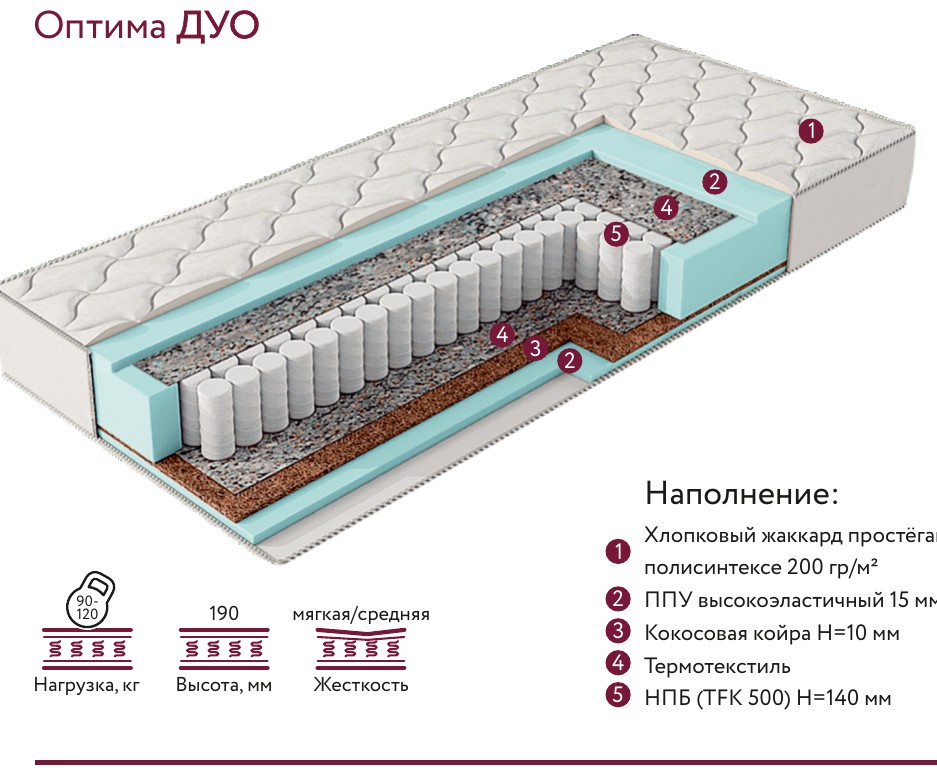
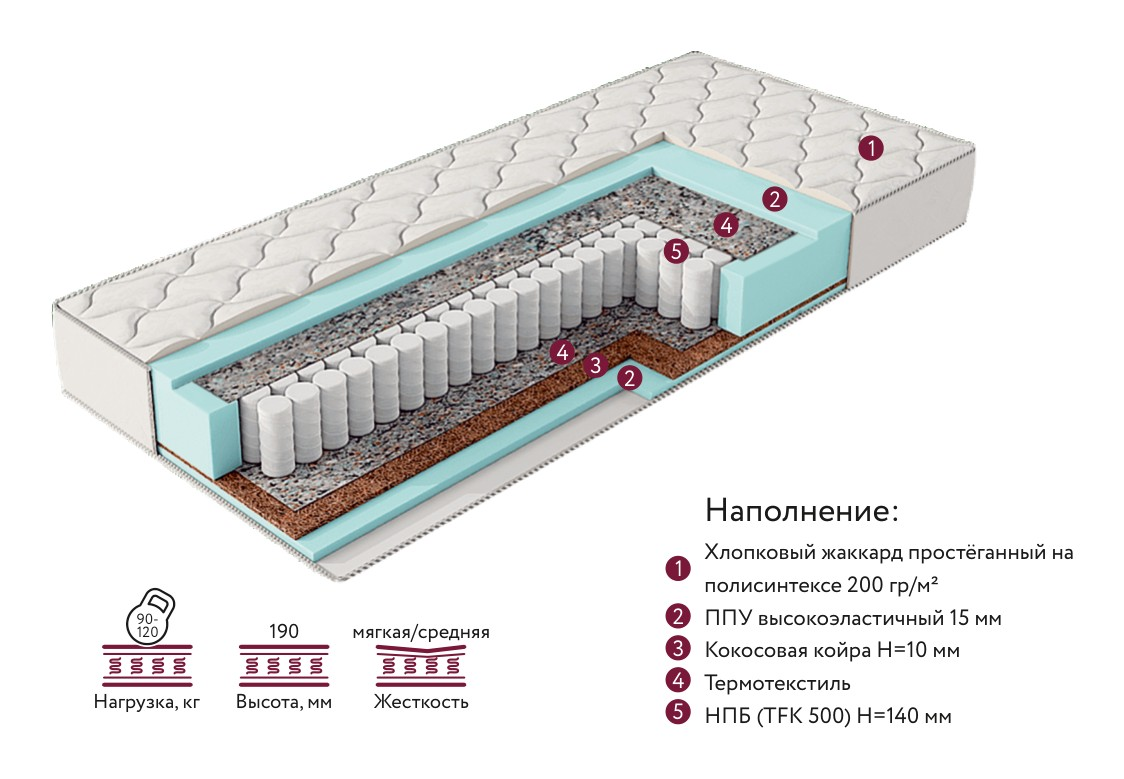
Разрезы матрасов без обрезки; плитка «Установить приложение» вместо советов
- 14 слайдов «Разрез» перенарезаны из листовки: матрас и «Наполнение» целиком
- Главное меню: «Советы начинающему» → «Установить приложение»; кнопка из шапки убрана

diff --git a/index.html b/index.html
@@ -522,21 +522,6 @@
     display: flex; align-items: center; justify-content: center;
   }
   .home-header-actions { display: flex; align-items: center; gap: 0.45rem; flex: none; }
-  .home-install-btn {
-    height: 2.55rem; padding: 0.14rem 0.72rem 0.14rem 0.18rem;
-    border: 1px solid var(--line); border-radius: 999px;
-    background: var(--surface); color: var(--ink); text-decoration: none;
-    display: inline-flex; align-items: center; justify-content: center; gap: 0.28rem;
-    font-size: 0.66rem; font-weight: 650; line-height: 1; white-space: nowrap;
-    box-shadow: 0 0.25rem 0.7rem rgba(44, 42, 30, 0.08);
-    transition: border-color 0.15s, background 0.15s, transform 0.15s;
-  }
-  .home-install-btn .text { line-height: 1.18; text-align: left; }
-  .home-install-btn:hover { border-color: var(--accent); background: var(--accent-soft); transform: translateY(-1px); }
-  .home-install-btn img {
-    display: block; width: 2.3rem; height: 2.3rem; object-fit: contain;
-    transform: scale(1.3); transform-origin: center;
-  }
   @media (max-width: 600px) {
     .home-header { gap: 0.45rem; }
     .home-header .word {
@@ -544,9 +529,6 @@
       letter-spacing: 0.01em;
     }
     .home-header-actions { gap: 0.3rem; }
-    .home-install-btn { width: 2.4rem; height: 2.4rem; padding: 0; }
-    .home-install-btn img { width: 2.25rem; height: 2.25rem; transform: scale(1.32); }
-    .home-install-btn .text { display: none; }
   }
   .home-body { max-width: 640px; margin: 0 auto; padding: 1.6rem clamp(1rem, 4vw, 1.5rem) 3rem; }
   .home-title { font-size: clamp(1.3rem, 3.4vw, 1.7rem); margin: 0 0 1.3rem; text-wrap: balance; }
@@ -868,10 +850,6 @@
       <span class="word display">БРЕНД МЕБЕЛИ</span>
     </div>
     <div class="home-header-actions">
-      <a class="home-install-btn" id="tileInstall" href="app/" aria-label="Установить на смартфон" title="Установить на смартфон">
-        <img src="assets/ui-icons/install-app-3d.png" width="256" height="256" alt="" aria-hidden="true" />
-        <span class="text">Установить<br />на смартфон</span>
-      </a>
       <button class="home-search-btn" id="homeSearchBtn" aria-label="Поиск">
         <svg width="17" height="17" viewBox="0 0 24 24" fill="none" stroke="currentColor" stroke-width="2"><circle cx="11" cy="11" r="7"/><path d="m21 21-4.3-4.3"/></svg>
       </button>
@@ -896,10 +874,10 @@
         <span class="icon-badge" aria-hidden="true"><img class="home-icon-3d" src="assets/ui-icons/home-fabric-picker-3d.png" width="512" height="512" alt="" /></span>
         <span class="label">Подбор ткани</span>
       </button>
-      <button class="home-tile" id="tileTips">
-        <span class="icon-badge badge-tips"><svg class="cube icon-tips" viewBox="0 0 24 24" fill="none" stroke="currentColor" stroke-width="1.6" stroke-linecap="round" stroke-linejoin="round"><path d="M9 18h6M10 21h4"/><path d="M12 3a6 6 0 0 0-3.7 10.74c.5.4.7 1 .7 1.62V16h6v-.64c0-.62.2-1.22.7-1.62A6 6 0 0 0 12 3z"/><path d="M12 3v0" stroke="#e0a52c" stroke-width="2.4"/></svg></span>
-        <span class="label">Советы начинающему</span>
-      </button>
+      <a class="home-tile home-tile--3d" id="tileInstall" href="app/" style="text-decoration:none">
+        <span class="icon-badge" aria-hidden="true"><img class="home-icon-3d" src="assets/ui-icons/install-app-3d.png" width="256" height="256" alt="" /></span>
+        <span class="label">Установить приложение</span>
+      </a>
     </div>
   </div>
 </div>
@@ -1623,7 +1601,6 @@
 
   document.getElementById("tileCatalog").addEventListener("click", () => { resetCatalog(); showScreen("catalogScreen"); });
   document.getElementById("tileFabric").addEventListener("click", () => showScreen("fabricScreen"));
-  document.getElementById("tileTips").addEventListener("click", () => showScreen("tipsScreen"));
   document.getElementById("tileSupplier").addEventListener("click", () => showScreen("supplierScreen"));
   document.getElementById("catalogBack").addEventListener("click", () => showScreen("homeScreen"));
   document.getElementById("fabricBack").addEventListener("click", () => showScreen("homeScreen"));

diff --git a/docs/catalog/CHANGELOG.md b/docs/catalog/CHANGELOG.md
@@ -1,5 +1,11 @@
 # Журнал изменений каталога
 
+## 19.09.2026 — Разрезы матрасов без обрезки; плитка «Установить приложение»
+
+Слайды «Разрез» всех 14 матрасов Апогей (254–267) перенарезаны из исходной листовки (PDF, 200 dpi): матрас целиком в кадре, блок «Наполнение» и иконки нагрузки/высоты/жёсткости полностью, ровные белые поля; название модели убрано (есть в заголовке карточки) — где оно стояло вплотную к матрасу, закрашено белым, а не обрезано. Имена файлов прежние (`slide_razrez.jpg`), `GALLERIES` не менялся.
+
+Главное меню: плитка «Советы начинающему» заменена на «Установить приложение» (ссылка `app/`, объёмная иконка `assets/ui-icons/install-app-3d.png`, 256×256 — версии крупнее нет). Кнопка «Установить на смартфон» из шапки удалена вместе с её CSS; обработчик клика по `tileTips` удалён (экран советов остался в коде, но с главной недоступен). Проверено в локальном браузере на 680 px и 375 px: плитки работают, ошибок в консоли нет.
+
 ## 19.09.2026 — Главные фото матрасов Апогей (254–267), слоган и иконка «Каталог»
 
 Всем 14 матрасам добавлено главное фото «В интерьере» (`assets/<модель>-matras/slide1_interior.jpg`, 1600×2143, JPEG) — первым слайдом галереи и в `IMAGES`. Это визуализация, не реальное фото: сцена и ракурс по образцу `nova-3-matras/slide1_hero.jpg`, чехол — по разрезу модели из официальной листовки. Модель nano-banana-pro (Gemini 3 Pro Image): 3 фото через AITunnel (Реал Софт, Оптима Дуо Лайт, Элит Натура NEW), 11 — через Kie.ai. Надписей и бейджей на фото нет — как у диванов, по указанию пользователя.
